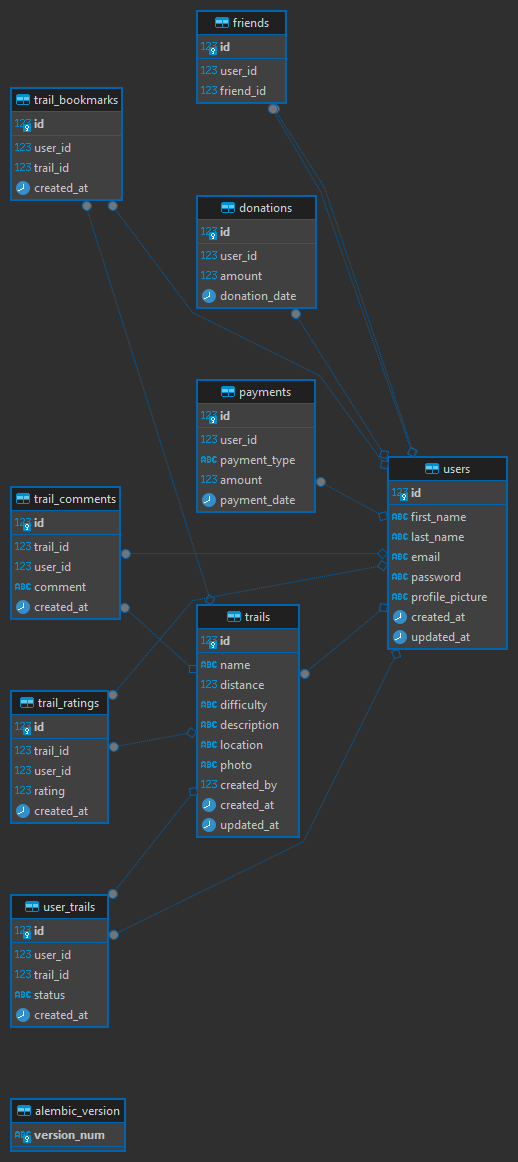
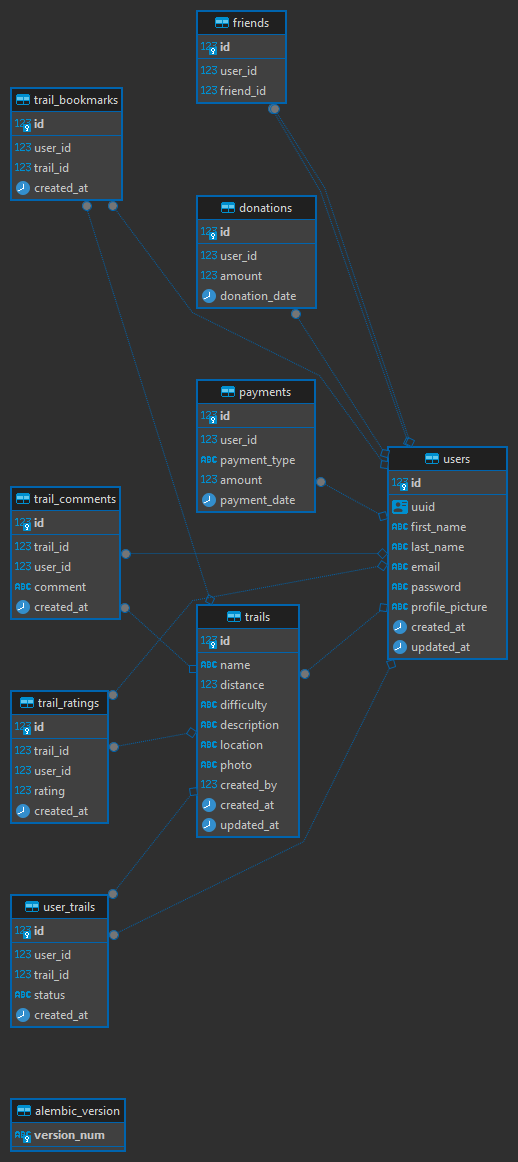
uuid in users

Changed region(s): [[0.7104, 0.3718, 0.9884, 0.5886]]

diff --git a/database/models/trail.py b/database/models/trail.py
@@ -3,10 +3,23 @@ from sqlalchemy.orm import relationship
 from database.db_config import Base
 from datetime import datetime
 
+from sqlalchemy import Column, Integer, String, Enum, ForeignKey, Float, DateTime
+from sqlalchemy.dialects.postgresql import UUID
+from sqlalchemy.orm import relationship
+from database.db_config import Base
+from datetime import datetime
+import uuid
+
 class User(Base):
     __tablename__ = 'users'
 
-    id = Column(Integer, primary_key=True, index=True)
+    # ID incremental (chave primária)
+    id = Column(Integer, primary_key=True, autoincrement=True)
+
+    # UUID (chave única)
+    uuid = Column(UUID(as_uuid=True), default=uuid.uuid4, unique=True, nullable=False, index=True)
+
+    # Outros campos da tabela de usuários
     first_name = Column(String, nullable=False)
     last_name = Column(String, nullable=False)
     email = Column(String, unique=True, nullable=False)
@@ -25,6 +38,7 @@ class User(Base):
     payments = relationship('Payment', back_populates='user', cascade="all, delete-orphan")
     friends = relationship('Friend', foreign_keys='Friend.user_id', back_populates='user', cascade="all, delete-orphan")
     added_friends = relationship('Friend', foreign_keys='Friend.friend_id', back_populates='friend', cascade="all, delete-orphan")
+
 
 class Trail(Base):
     __tablename__ = 'trails'
